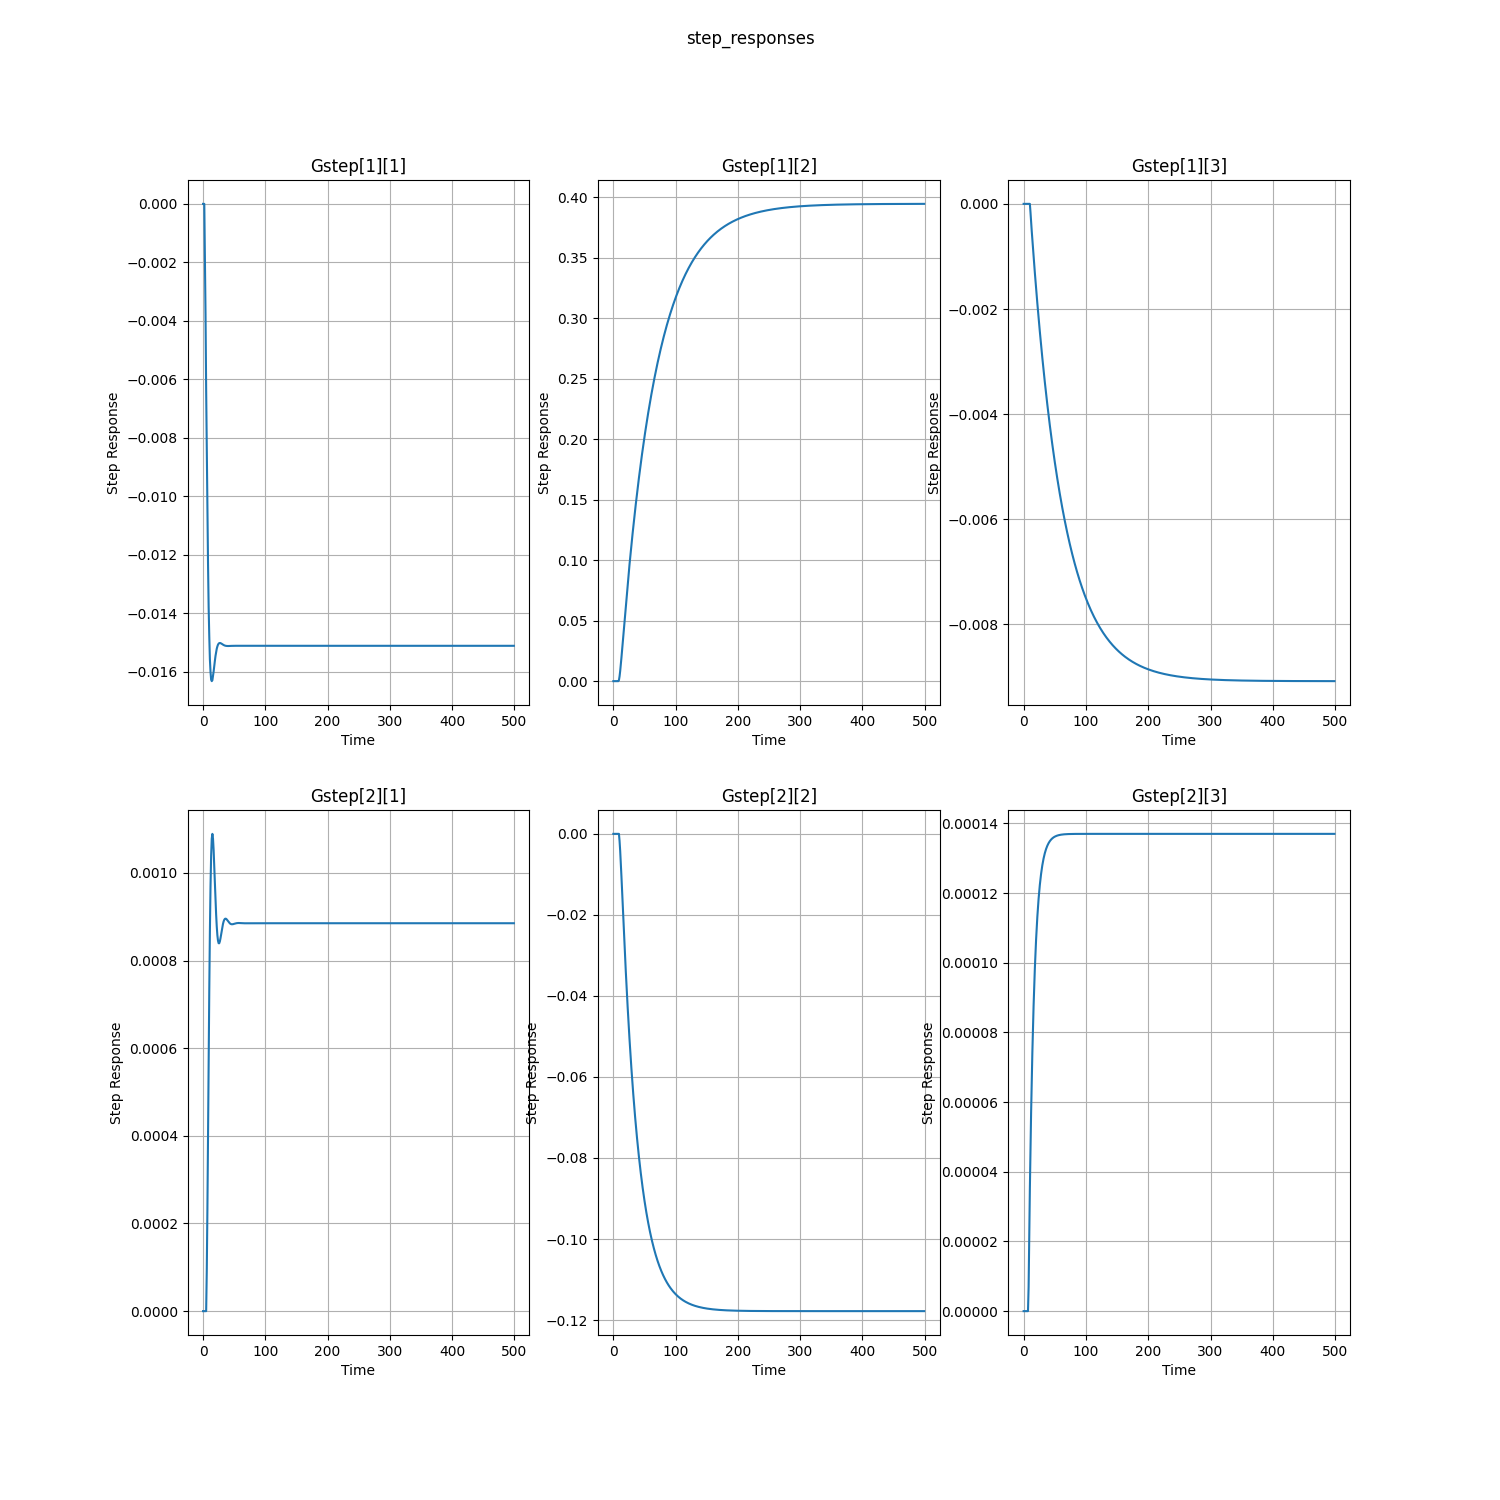
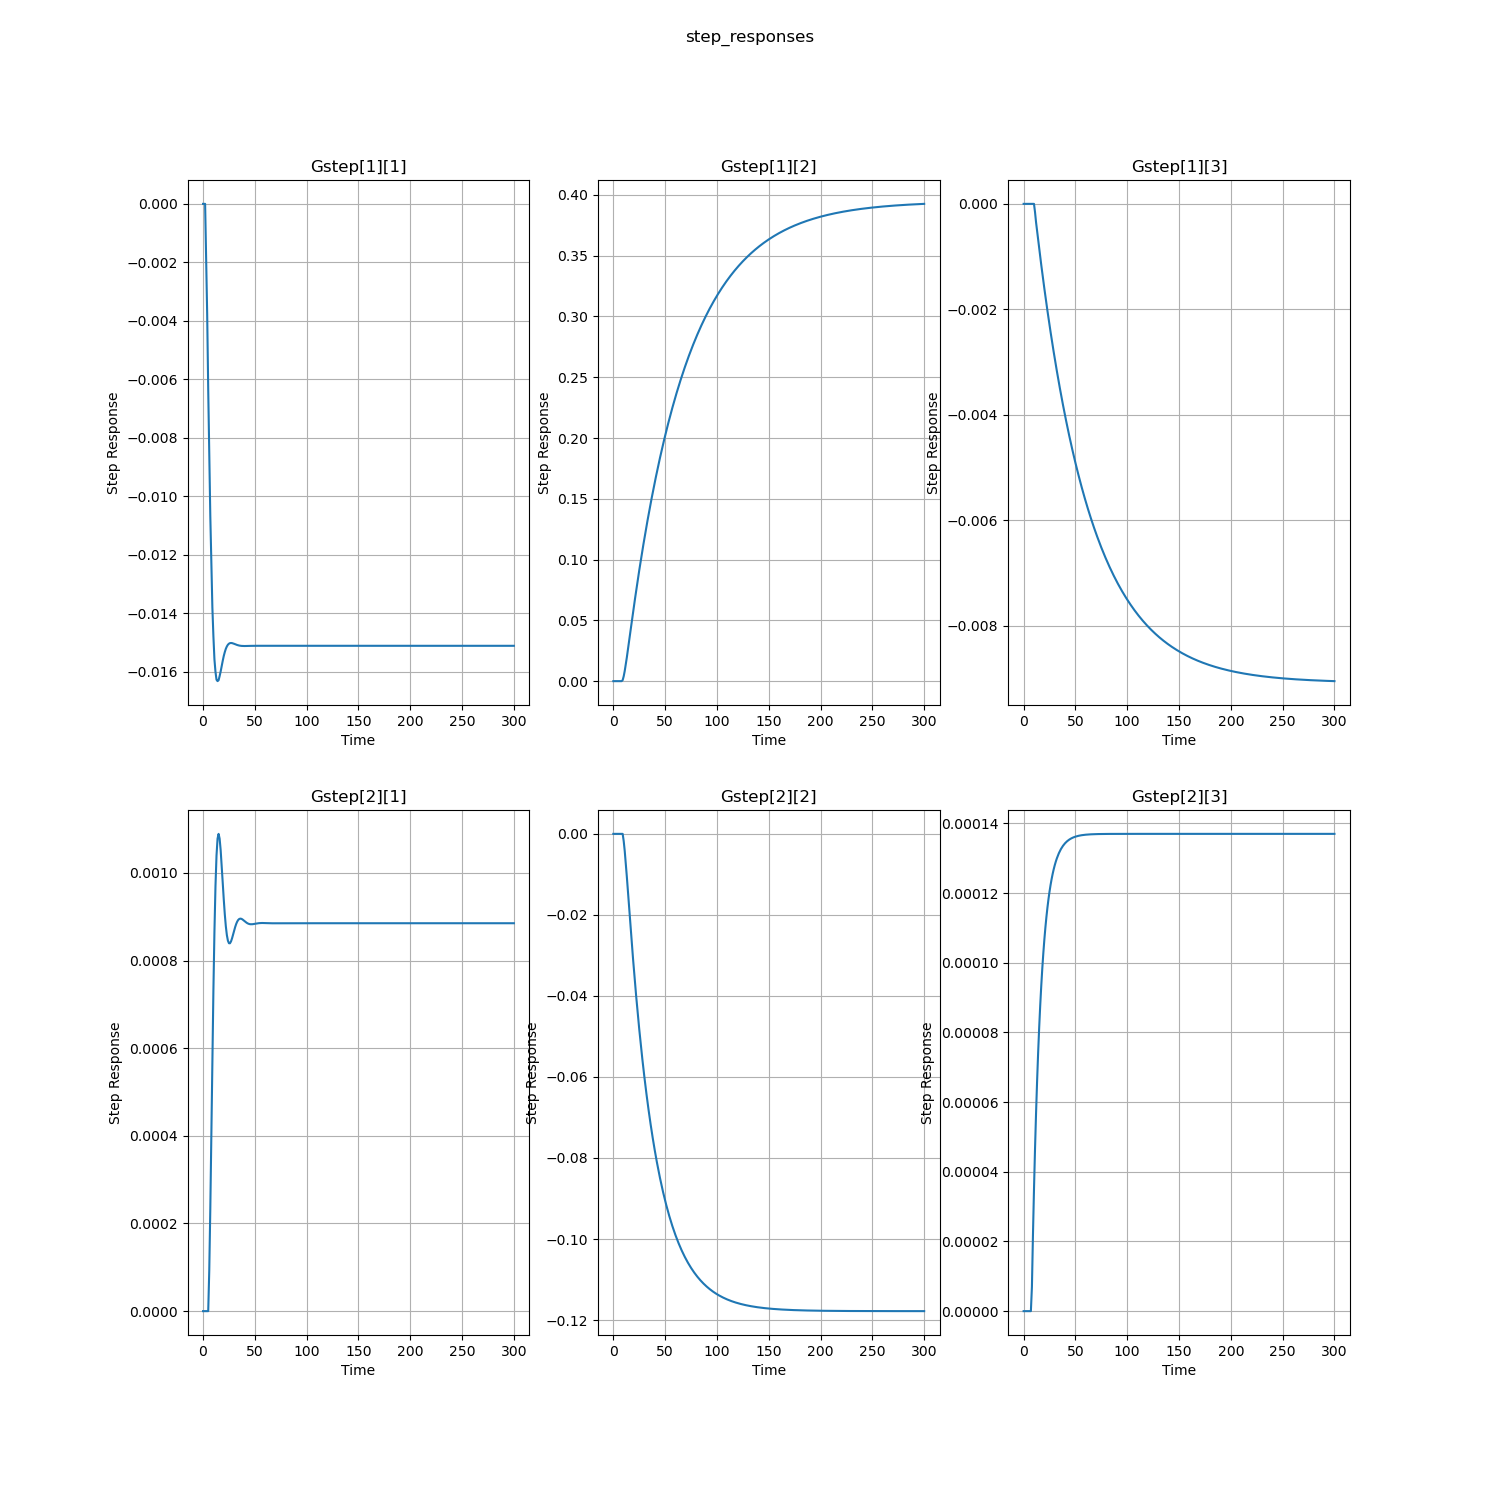
deleting need to plot max length on calc step responses

diff --git a/src/mpc.py b/src/mpc.py
@@ -29,11 +29,11 @@ def calculate_step_responses(Gm, nsim, T, fig_name, plot_max_lenght=500):
             Gstep[j][i] = y_out
 
     # Plot step responses
-    plot_step_responses(Gstep, nsim, T, plot_max_lenght, fig_name)
+    plot_step_responses(Gstep, nsim, T, fig_name)
 
     return Gstep
 
-def plot_step_responses(Gstep, nsim, T, plot_max_length, fig_name):
+def plot_step_responses(Gstep, nsim, T, fig_name):
     tstep = np.linspace(0, nsim * T, nsim + 1)
     nrows = len(Gstep)
     ncols = len(Gstep[0])
@@ -41,7 +41,7 @@ def plot_step_responses(Gstep, nsim, T, plot_max_length, fig_name):
     fig.suptitle('step_responses')
     for j, row in enumerate(Gstep):
         for i, y_out in enumerate(row):
-            axs[j, i].plot(tstep[:plot_max_length], y_out[:plot_max_length])
+            axs[j, i].plot(tstep, y_out)
             axs[j, i].set_title(f'Gstep[{j+1}][{i+1}]')
             axs[j, i].grid(True)
     for ax in axs.flat:

diff --git a/01-LPGdebutanizerSimTest.py b/01-LPGdebutanizerSimTest.py
@@ -17,7 +17,7 @@ y0 = np.array([0.0139689, 0.0152698], dtype=float)
 #load the step responses
 Gmstep = joblib.load('outputs/Gstep.joblib')
 Gpstep = Gmstep
-plot_step_responses(Gmstep, nsim, T, plot_max_length=120, fig_name='01-LPGdebutanizer - Step Responses')
+plot_step_responses(Gmstep, nsim, T, '01-LPGdebutanizer - Step Responses')
 
 # Set Simulation test
 tsimTest = np.linspace(0, nsimTest * T, nsimTest + 1)  # Simulation Time vector
@@ -60,7 +60,6 @@ for t in range(nsim + 1):
         Usim[:, t:] = u_opt.reshape(-1, 1)
         # Simulate
         Ysim, delta_U = simulateMIMO(Gpstep, tsim, ny, nu, y0, u0, Usim)
-
         # Update Y0 and U0 for the next step
         y0temp = Ysim[:, t]
         u0temp = Usim[:, t]

diff --git a/testSimulation.py b/testSimulation.py
@@ -11,8 +11,8 @@ nsimTest = 2000  # Test simulation time in sampling periods
 s1 = System1()
 
 # Calculate step responses
-Gmstep = calculate_step_responses(s1.Gm, nsimTest, s1.T, 'step responses - test')
-Gpstep = calculate_step_responses(s1.Gm, nsim, s1.T, 'step responses - control loop simulation') # Gp = Gm for this example
+Gmstep = calculate_step_responses(s1.Gm, s1.n, s1.T, 'step responses - test')
+Gpstep = calculate_step_responses(s1.Gm, s1.n, s1.T, 'step responses - control loop simulation') # Gp = Gm for this example
 
 # Set Simulation test
 Utest, tsimTest = s1.generate_test_input(nsimTest)  # Generate test input
